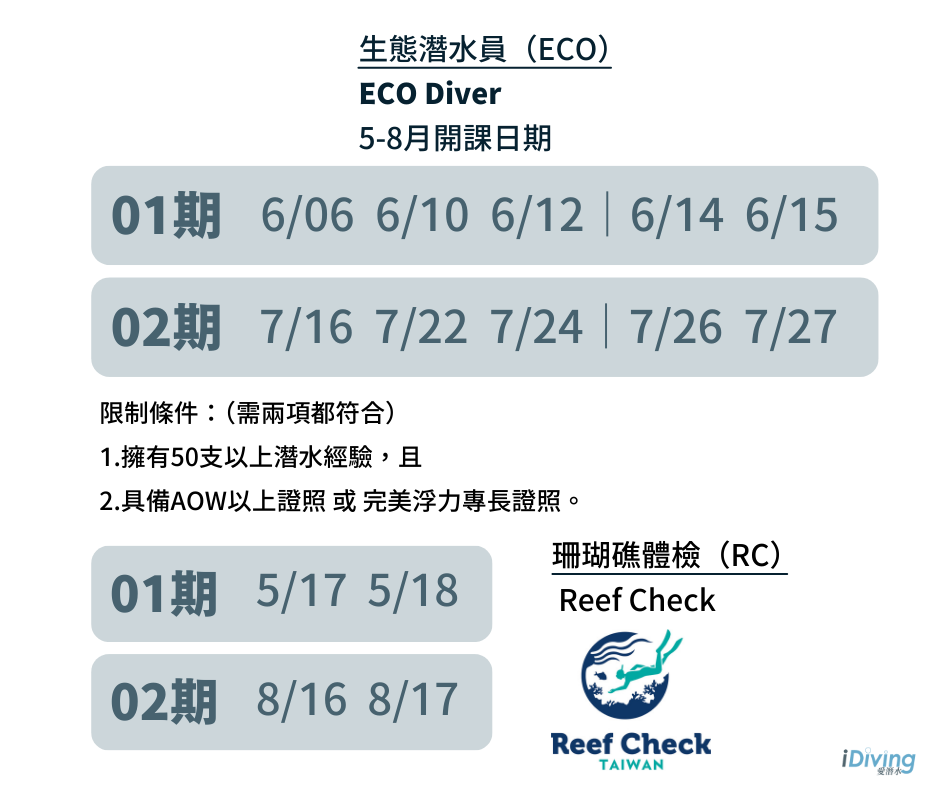
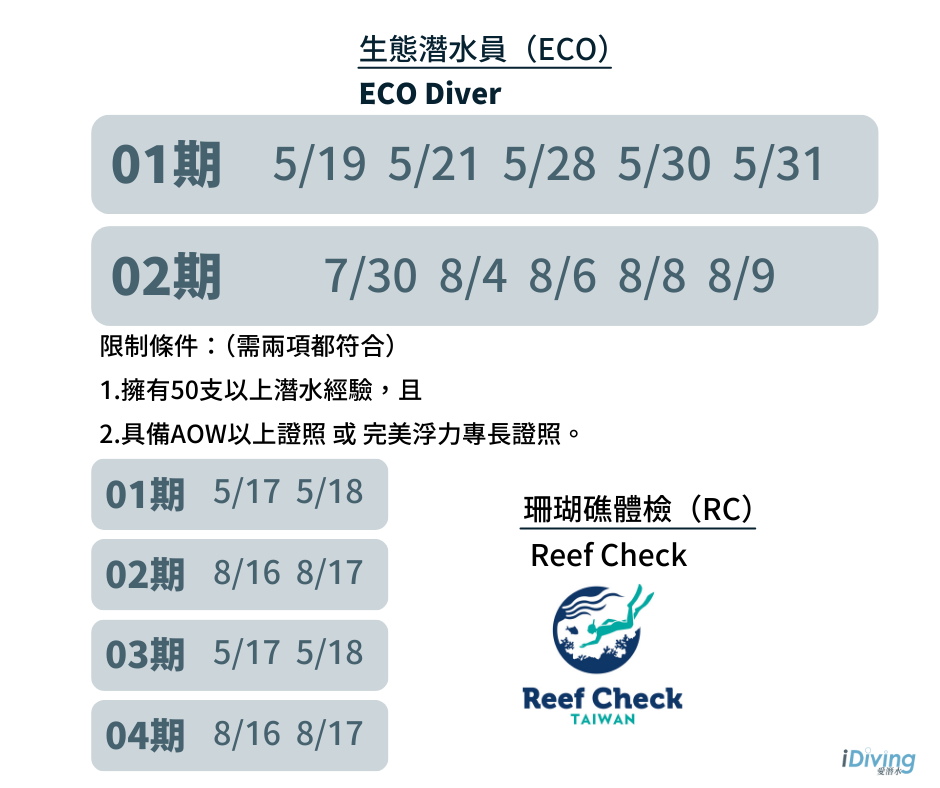
更新SR RR FID ECO期別

diff --git a/src/app/pages/c310/c310.component.html b/src/app/pages/c310/c310.component.html
@@ -744,7 +744,7 @@
                                                     </td>
                                                     <td>
                                                         <p class="fs-6">
-                                                            <br>DAY2  | 術科訓練 08:00~21:00<br>
+                                                            <br>DAY2 | 術科訓練 08:00~21:00<br>
                                                         </p>
                                                         <hr>
                                                         <p class="fs-6">
@@ -2554,7 +2554,29 @@
                                             </tbody>
                                         </table>
                                         <br>
-                                        <img class="d-block" src="../../../../assets/Image/Data/Schedule_RR.png" width="100%" style="display:block; margin:auto;">
+                                        <div id="carouselExampleIndicators" class="carousel slide">
+                                            <div class="carousel-indicators">
+                                                <button type="button" data-bs-target="#carouselExampleIndicators" data-bs-slide-to="0" class="active" aria-current="true" aria-label="Slide 1"></button>
+                                                <button type="button" data-bs-target="#carouselExampleIndicators" data-bs-slide-to="1" aria-label="Slide 2"></button>
+                                            </div>
+                                            <div class="carousel-inner">
+                                                <div class="carousel-item active">
+                                                    <img src="../../../../assets/Image/Data/Schedule_RR01.png" class="d-block w-100" alt="...">
+                                                </div>
+                                                <div class="carousel-item">
+                                                    <img src="../../../../assets/Image/Data/Schedule_RR02.png" class="d-block w-100" alt="...">
+                                                </div>
+                                            </div>
+                                            <button class="carousel-control-prev" type="button" data-bs-target="#carouselExampleIndicators" data-bs-slide="prev">
+                                                <span class="carousel-control-prev-icon" aria-hidden="true"></span>
+                                                <span class="visually-hidden">Previous</span>
+                                            </button>
+                                            <button class="carousel-control-next" type="button" data-bs-target="#carouselExampleIndicators" data-bs-slide="next">
+                                                <span class="carousel-control-next-icon" aria-hidden="true"></span>
+                                                <span class="visually-hidden">Next</span>
+                                            </button>
+                                        </div>
+                                        <br>
                                     </div>
                                     <!-- 課程學費 -->
                                     <div>
@@ -2761,7 +2783,7 @@
                                 <a class="fs-4" ngbNavLink>壓力與救援</a>
                                 <ng-template ngbNavContent>
 
-                                    <h3 style="font-family:DFKai-sb;">壓力與救援  Stress & Rescue (SR)</h3>
+                                    <h3 style="font-family:DFKai-sb;">壓力與救援 Stress & Rescue (SR)</h3>
                                     <hr>
                                     <!-- 課程內容 -->
                                     <div>
@@ -2826,7 +2848,7 @@
                                                     </td>
                                                     <td>
                                                         <p class="fs-6">
-                                                            DAY 1  | 學科 08:00~11:00 平靜水域（東北角泳池）13:00 ~ 17:00<br>
+                                                            DAY 1 | 學科 08:00~11:00 平靜水域（東北角泳池）13:00 ~ 17:00<br>
                                                         </p>
                                                         <hr>
                                                         <p class="fs-6">
@@ -2838,12 +2860,13 @@
                                                             救援無意識潛水員技巧演練
                                                         </p>
                                                     </td>
-                                                </tr>                                                <tr>
+                                                </tr>
+                                                <tr>
                                                     <td width="10%">
                                                     </td>
                                                     <td>
                                                         <p class="fs-6">
-                                                            <br>DAY 2 |  開放水域 08:00 ~ 12:00 <br>
+                                                            <br>DAY 2 | 開放水域 08:00 ~ 12:00 <br>
                                                         </p>
                                                         <hr>
                                                         <p class="fs-6">
@@ -2856,7 +2879,29 @@
                                             </tbody>
                                         </table>
                                         <br>
-                                        <img class="d-block" src="../../../../assets/Image/Data/Schedule_SR.png" width="100%" style="display:block; margin:auto;">
+                                        <div id="carouselExampleIndicators" class="carousel slide">
+                                            <div class="carousel-indicators">
+                                                <button type="button" data-bs-target="#carouselExampleIndicators" data-bs-slide-to="0" class="active" aria-current="true" aria-label="Slide 1"></button>
+                                                <button type="button" data-bs-target="#carouselExampleIndicators" data-bs-slide-to="1" aria-label="Slide 2"></button>
+                                            </div>
+                                            <div class="carousel-inner">
+                                                <div class="carousel-item active">
+                                                    <img src="../../../../assets/Image/Data/Schedule_SR01.png" class="d-block w-100" alt="...">
+                                                </div>
+                                                <div class="carousel-item">
+                                                    <img src="../../../../assets/Image/Data/Schedule_SR02.png" class="d-block w-100" alt="...">
+                                                </div>
+                                            </div>
+                                            <button class="carousel-control-prev" type="button" data-bs-target="#carouselExampleIndicators" data-bs-slide="prev">
+                                                <span class="carousel-control-prev-icon" aria-hidden="true"></span>
+                                                <span class="visually-hidden">Previous</span>
+                                            </button>
+                                            <button class="carousel-control-next" type="button" data-bs-target="#carouselExampleIndicators" data-bs-slide="next">
+                                                <span class="carousel-control-next-icon" aria-hidden="true"></span>
+                                                <span class="visually-hidden">Next</span>
+                                            </button>
+                                        </div>
+                                        <br>
                                     </div>
                                     <!-- 課程學費 -->
                                     <div>

diff --git a/src/app/pages/c312/c312.component.html b/src/app/pages/c312/c312.component.html
@@ -462,6 +462,29 @@
                                 </tbody>
                             </table>
                             <br>
+                            <div id="carouselExampleIndicators" class="carousel slide">
+                                <div class="carousel-indicators">
+                                    <button type="button" data-bs-target="#carouselExampleIndicators" data-bs-slide-to="0" class="active" aria-current="true" aria-label="Slide 1"></button>
+                                    <button type="button" data-bs-target="#carouselExampleIndicators" data-bs-slide-to="1" aria-label="Slide 2"></button>
+                                </div>
+                                <div class="carousel-inner">
+                                    <div class="carousel-item active">
+                                        <img src="../../../../assets/Image/Data/Schedule_FID01.png" class="d-block w-100" alt="...">
+                                    </div>
+                                    <div class="carousel-item">
+                                        <img src="../../../../assets/Image/Data/Schedule_FID02.png" class="d-block w-100" alt="...">
+                                    </div> 
+                                </div>
+                                <button class="carousel-control-prev" type="button" data-bs-target="#carouselExampleIndicators" data-bs-slide="prev">
+                                    <span class="carousel-control-prev-icon" aria-hidden="true"></span>
+                                    <span class="visually-hidden">Previous</span>
+                                </button>
+                                <button class="carousel-control-next" type="button" data-bs-target="#carouselExampleIndicators" data-bs-slide="next">
+                                    <span class="carousel-control-next-icon" aria-hidden="true"></span>
+                                    <span class="visually-hidden">Next</span>
+                                </button>
+                            </div>
+                            <br>
                         </div>
                         <!-- 課程學費 -->
                         <div>
